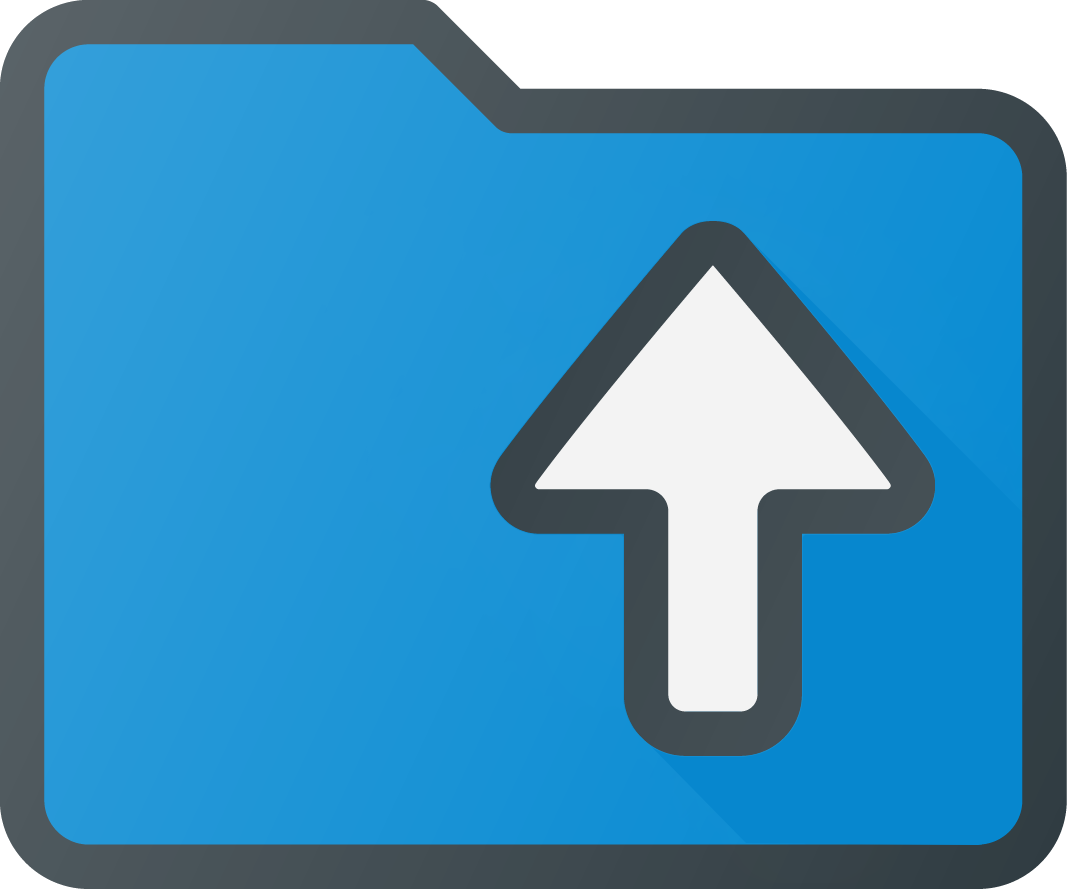
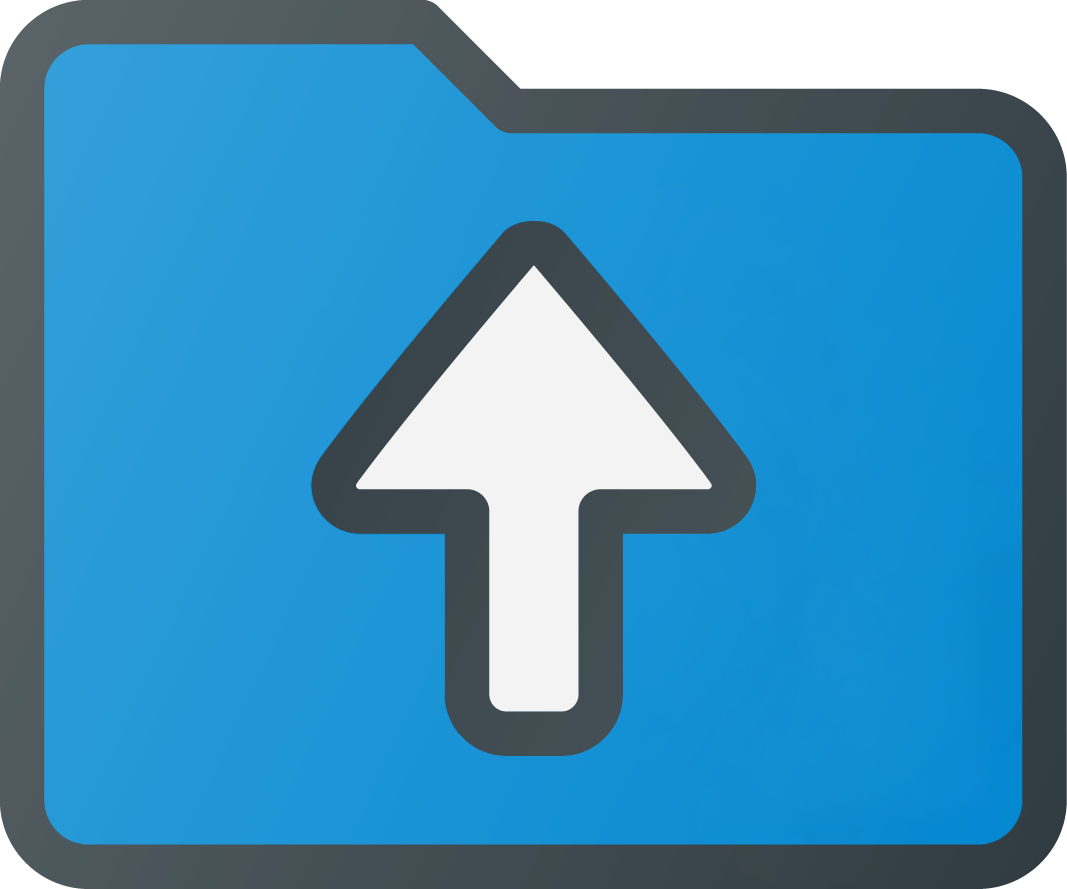
Bug fixes and minor improvements
- Fixed CSV export naming bug
- Renames imported images if an image by that name already exists
- Fixed NullPointerException error on cancelling open dialogue
- Changed a couple icons to look prettier

Changed region(s): [[0.2784, 0.243, 0.8969, 0.8504]]

diff --git a/Venn/src/main/java/application/Controller.java b/Venn/src/main/java/application/Controller.java
@@ -869,10 +869,10 @@ public class Controller {
 	@FXML
 	private void addItemToList() {
 		String newItem = addItemField.getText();
-		if (!(newItem.equals("") || itemsList.getItems().contains(newItem))) {
+		if (!(newItem.equals("") || new File("imgs/" + newItem).exists())) {
 			itemsList.getItems().add(newItem);
-			addItemField.setText("");
 		}
+		addItemField.setText("");
 		changesMade();
 	}
 
@@ -1281,6 +1281,8 @@ public class Controller {
 	}
 
 	private void doTheLoad() {
+		
+		// FIXME: NullPointerException on cancel?
 
 		// Hierarchy of a .venn file:
 		// . Diagram.venn:
@@ -1449,13 +1451,11 @@ public class Controller {
 
 			openFile = file;
 			changesMade = false;
-			// FIXME: Crashes the JUnit tests because they don't have a title bar on the
-			// window to change
+			// FIXME: Crashes the JUnit tests because they don't have a title bar on the window to change
 			Main.primaryStage.setTitle(openFile.getName() + " - Venn");
 			hideAnswers();
 			clearAnswerKey();
 		} catch (Exception e) {
-			e.printStackTrace();
 			if (file != null) {
 				Alert a = new Alert(AlertType.ERROR);
 				a.setHeaderText("File could not be opened");
@@ -1742,7 +1742,17 @@ public class Controller {
 			}
 			
 			else if (fc.getSelectedExtensionFilter().equals(imgFilter)) {
-				addImageToDiagram(frameRect.getWidth()/2 - 50, frameRect.getHeight()/2 - 50, file.getName(), file);
+				String imgName = "imgs/" + file.getName();
+				imgName.lastIndexOf('.');
+				if (new File(imgName).exists()) {
+					int i = 2;
+					imgName = imgName.substring(0, imgName.lastIndexOf('.')) + " " + i + imgName.substring(imgName.lastIndexOf('.'));
+					while (new File(imgName).exists()) {
+						i++;
+						imgName = imgName.substring(0, imgName.lastIndexOf('.') - 1) + i + imgName.substring(imgName.lastIndexOf('.'));
+					}
+				}
+				addImageToDiagram(frameRect.getWidth()/2 - 50, frameRect.getHeight()/2 - 50, imgName.substring(5), file);
 			}
 			
 			else if (fc.getSelectedExtensionFilter().equals(ansFilter)) {
@@ -1823,7 +1833,7 @@ public class Controller {
 		try {
 			String name;
 			if (openFile != null) {
-				name = openFile.getName();
+				name = openFile.getName().substring(0, openFile.getName().length() - 5) + ".csv";
 			} else if (!title.getText().equals("")) {
 				name = title.getText() + ".csv";
 			} else if (!circleLeftTitle.getText().contentEquals("") && !circleRightTitle.getText().contentEquals("")) {
@@ -2299,41 +2309,41 @@ public class Controller {
 						Main.primaryStage.close();
 					}
 				});
-				Main.primaryStage.widthProperty().addListener(listener -> {
-					double width = Main.primaryStage.getWidth();
-					double height = Main.primaryStage.getHeight();
-					if (width < floatingMenu.getBoundsInParent().getWidth() + frameRect.getBoundsInParent().getWidth() + 50
-							|| height < menuBar.getBoundsInParent().getHeight() + toolBar.getBoundsInParent().getHeight() + frameRect.getBoundsInParent().getHeight() + 50) {
-						zoomOut();
-//						frameRect.resizeRelocate(frameRect.getLayoutX() - 100, frameRect.getLayoutY() - 100, frameRect.getWidth() * 0.9, frameRect.getHeight() * 0.9);
-						updateIntersection();
-					}
-					else if (width > floatingMenu.getBoundsInParent().getWidth() + frameRect.getBoundsInParent().getWidth() + 50
-							|| height > menuBar.getBoundsInParent().getHeight() + toolBar.getBoundsInParent().getHeight() + frameRect.getBoundsInParent().getHeight() + 50) {
-						zoomIn();
-//						frameRect.relocate(frameRect.getLayoutX() - 300, frameRect.getLayoutY() - 300);
-//						frameRect.resizeRelocate(frameRect.getLayoutX() - 100, frameRect.getLayoutY() - 100, frameRect.getWidth() / 0.9, frameRect.getHeight() / 0.9);
-						updateIntersection();
-					}
-				});
-				Main.primaryStage.heightProperty().addListener(listener -> {
-					double width = Main.primaryStage.getWidth();
-					double height = Main.primaryStage.getHeight();
-					if (width < floatingMenu.getBoundsInParent().getWidth() + frameRect.getBoundsInParent().getWidth() + 50
-							|| height < menuBar.getBoundsInParent().getHeight() + toolBar.getBoundsInParent().getHeight() + frameRect.getBoundsInParent().getHeight() + 50) {
-						zoomOut();
-//						frameRect.relocate(frameRect.getLayoutX() + 300, frameRect.getLayoutY() + 300);
-//						frameRect.resizeRelocate(frameRect.getLayoutX() - 100, frameRect.getLayoutY() - 100, frameRect.getWidth() * 0.9, frameRect.getHeight() * 0.9);
-						updateIntersection();
-					}
-					else if (width > floatingMenu.getBoundsInParent().getWidth() + frameRect.getBoundsInParent().getWidth() + 50
-							|| height > menuBar.getBoundsInParent().getHeight() + toolBar.getBoundsInParent().getHeight() + frameRect.getBoundsInParent().getHeight() + 50) {
-						zoomIn();
-//						frameRect.relocate(frameRect.getLayoutX() - 300, frameRect.getLayoutY() - 300);
-//						frameRect.resizeRelocate(frameRect.getLayoutX() - 100, frameRect.getLayoutY() - 100, frameRect.getWidth() / 0.9, frameRect.getHeight() / 0.9);
-						updateIntersection();
-					}
-				});
+//				Main.primaryStage.widthProperty().addListener(listener -> {
+//					double width = Main.primaryStage.getWidth();
+//					double height = Main.primaryStage.getHeight();
+//					if (width < floatingMenu.getBoundsInParent().getWidth() + frameRect.getBoundsInParent().getWidth() + 50
+//							|| height < menuBar.getBoundsInParent().getHeight() + toolBar.getBoundsInParent().getHeight() + frameRect.getBoundsInParent().getHeight() + 50) {
+//						zoomOut();
+////						frameRect.resizeRelocate(frameRect.getLayoutX() - 100, frameRect.getLayoutY() - 100, frameRect.getWidth() * 0.9, frameRect.getHeight() * 0.9);
+//						updateIntersection();
+//					}
+//					else if (width > floatingMenu.getBoundsInParent().getWidth() + frameRect.getBoundsInParent().getWidth() + 50
+//							|| height > menuBar.getBoundsInParent().getHeight() + toolBar.getBoundsInParent().getHeight() + frameRect.getBoundsInParent().getHeight() + 50) {
+//						zoomIn();
+////						frameRect.relocate(frameRect.getLayoutX() - 300, frameRect.getLayoutY() - 300);
+////						frameRect.resizeRelocate(frameRect.getLayoutX() - 100, frameRect.getLayoutY() - 100, frameRect.getWidth() / 0.9, frameRect.getHeight() / 0.9);
+//						updateIntersection();
+//					}
+//				});
+//				Main.primaryStage.heightProperty().addListener(listener -> {
+//					double width = Main.primaryStage.getWidth();
+//					double height = Main.primaryStage.getHeight();
+//					if (width < floatingMenu.getBoundsInParent().getWidth() + frameRect.getBoundsInParent().getWidth() + 50
+//							|| height < menuBar.getBoundsInParent().getHeight() + toolBar.getBoundsInParent().getHeight() + frameRect.getBoundsInParent().getHeight() + 50) {
+//						zoomOut();
+////						frameRect.relocate(frameRect.getLayoutX() + 300, frameRect.getLayoutY() + 300);
+////						frameRect.resizeRelocate(frameRect.getLayoutX() - 100, frameRect.getLayoutY() - 100, frameRect.getWidth() * 0.9, frameRect.getHeight() * 0.9);
+//						updateIntersection();
+//					}
+//					else if (width > floatingMenu.getBoundsInParent().getWidth() + frameRect.getBoundsInParent().getWidth() + 50
+//							|| height > menuBar.getBoundsInParent().getHeight() + toolBar.getBoundsInParent().getHeight() + frameRect.getBoundsInParent().getHeight() + 50) {
+//						zoomIn();
+////						frameRect.relocate(frameRect.getLayoutX() - 300, frameRect.getLayoutY() - 300);
+////						frameRect.resizeRelocate(frameRect.getLayoutX() - 100, frameRect.getLayoutY() - 100, frameRect.getWidth() / 0.9, frameRect.getHeight() / 0.9);
+//						updateIntersection();
+//					}
+//				});
 				Main.primaryStage.getScene().getWindow().centerOnScreen();
 				File f = new File("imgs");
 				f.mkdir();
